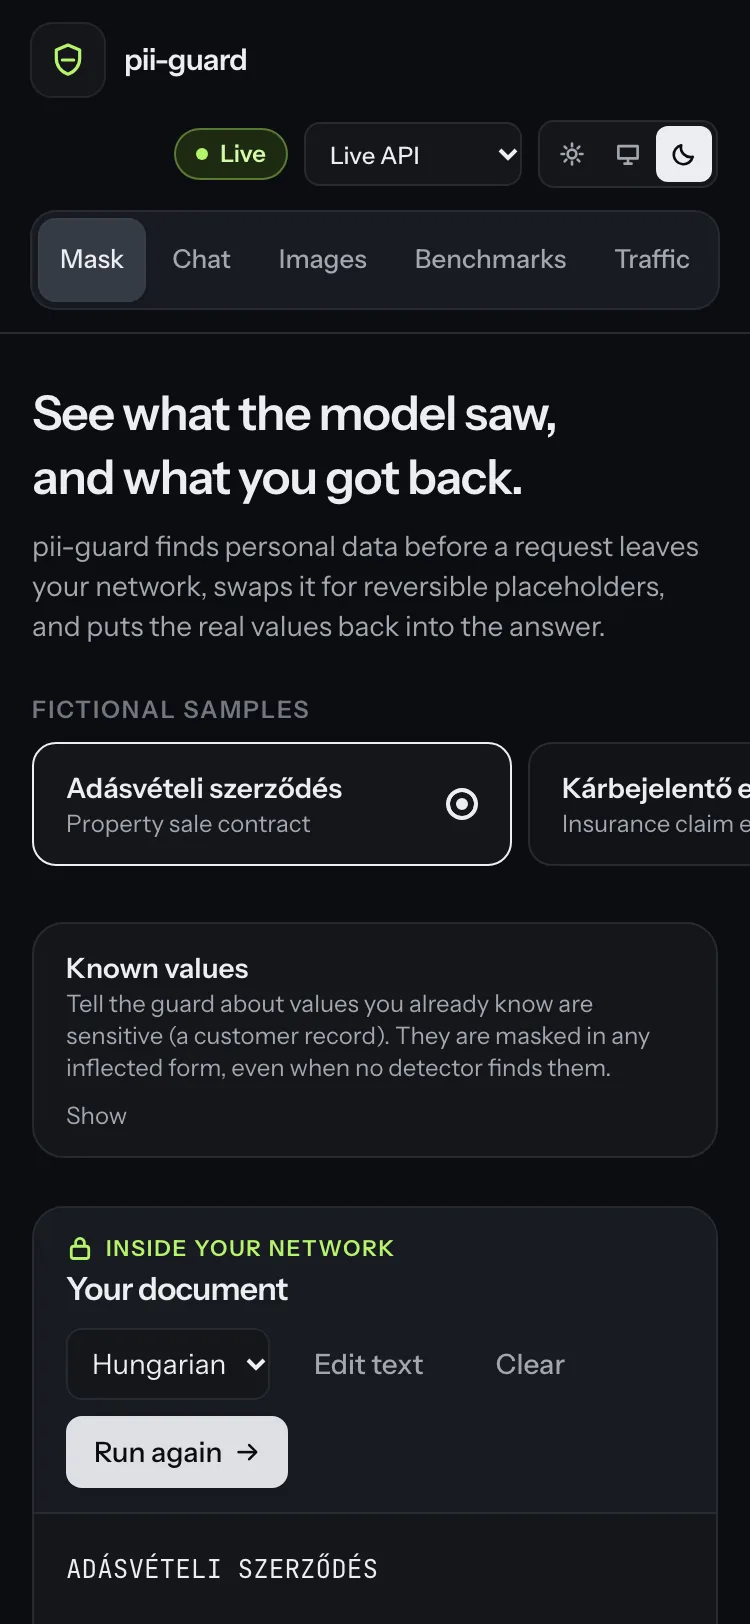
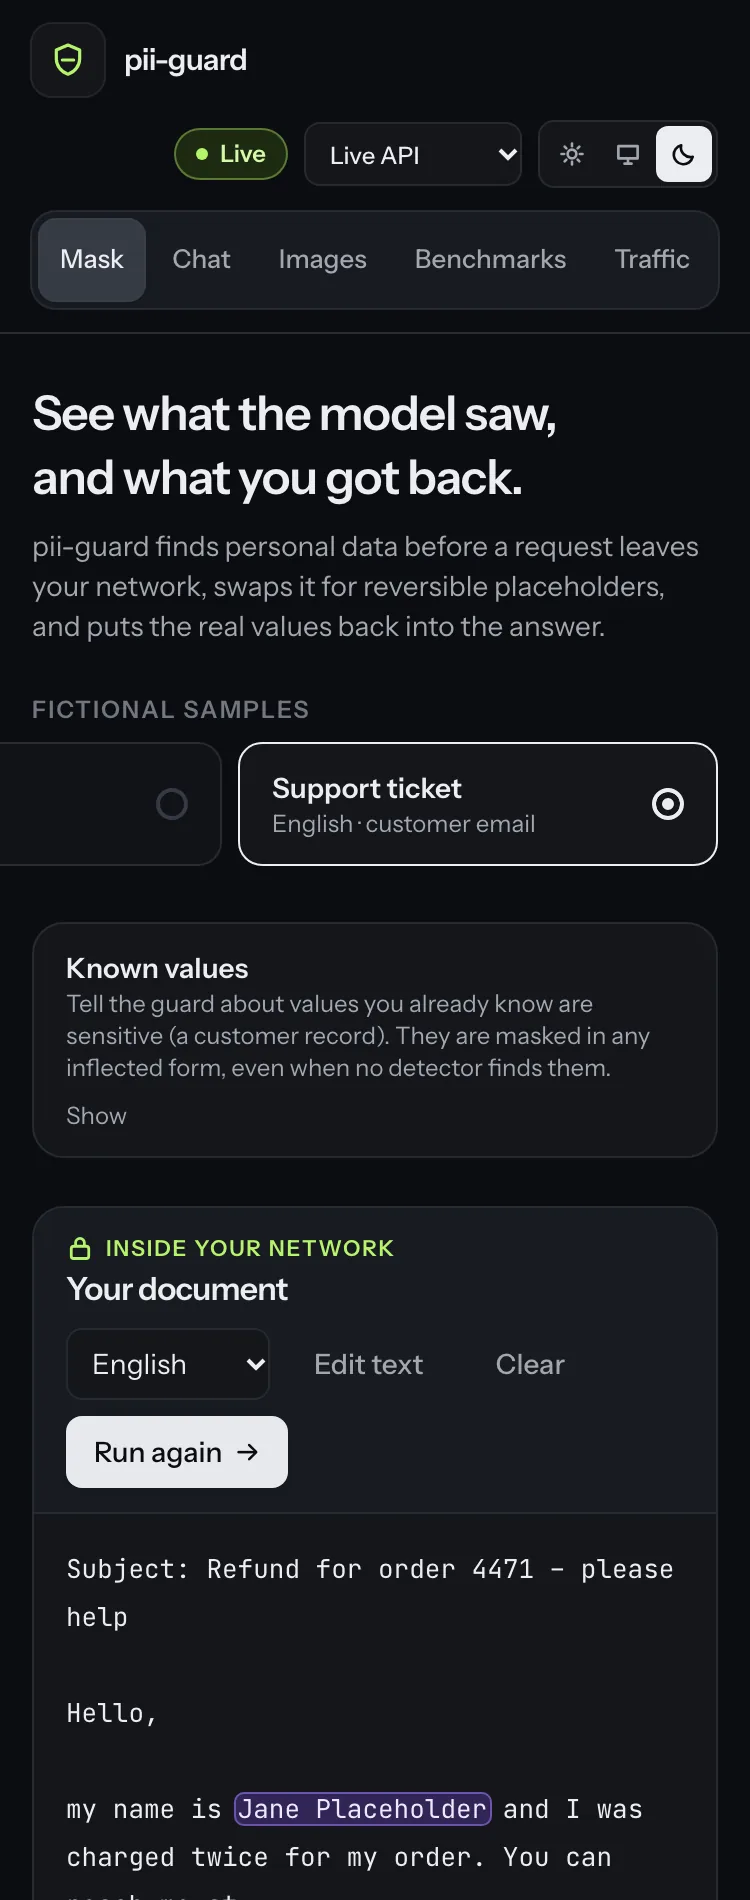
docs(readme): English dark assets, Meta lineage, honest comparison, agent gateway (LAB-1231)
Critique round 1 fixes: Meta lineage table and results above the fold, PrivAiTe's ai4privacy
win stated, numbers matching the generated benchmarks, real Hungarian output with an English
gloss, mock upstream labelled, 17 s animation, PR template links absolute. Every screenshot and
the animation re-captured with English content in the dark theme.

diff --git a/README.md b/README.md
@@ -1,8 +1,8 @@
 <p align="center">
-  <img src="docs/assets/banner.svg" alt="pii-guard: a privacy firewall for AI agents. You send 'Írj Minta Máriának holnap', the model sees 'Írj [[PERSON_7f3a]]nak holnap', you get back the real name." width="100%">
+  <img src="docs/assets/banner.svg" alt="pii-guard: a privacy firewall for AI agents. You send 'Email Jane Placeholder: jane@example.net', the model sees 'Email [[PERSON_7f3a]]: [[EMAIL_20c2]]', you get the real name back." width="100%">
 </p>
 
-<p align="center"><b>Mask personal data before it reaches the LLM, and put it back in the answer. On your machine, in milliseconds.</b></p>
+<p align="center"><b>Mask personal data before it reaches the LLM, and put it back in the answer. Built on Meta's open models; runs on your machine.</b></p>
 
 <p align="center">
   <a href="https://github.com/watt-mind/pii-guard/actions/workflows/ci.yml"><img alt="CI" src="https://github.com/watt-mind/pii-guard/actions/workflows/ci.yml/badge.svg?branch=develop"></a>
@@ -11,116 +11,132 @@
   <a href="docs/decisions/0005-synthetic-data-only.md"><img alt="Fictional data only" src="https://img.shields.io/badge/data-fictional%20only-b6f36b"></a>
 </p>
 
-pii-guard sits between your application and any OpenAI-compatible LLM. It finds personal data in
-text and images, swaps it for reversible placeholders before anything leaves your
-infrastructure, and restores the real values in the model's answer, even while it streams.
+**For teams building AI agents in Europe's regulated professions** (legal, health, finance, HR,
+public sector). Their useful data is personal data: a case file, a referral letter, an HR
+folder. Under GDPR, sending it to a third-party model is a legal risk; not sending it means the
+agent can't do the job. pii-guard is a drop-in proxy in between: change one base URL, and every
+name, address, ID and face is swapped for a reversible placeholder before the request leaves
+your network, then restored in the answer, even mid-stream and inside tool calls.
 
-```text
-"Kérem, írjon Próba Zsuzsannának a zsuzsa.proba@example.com címre."      ← what you send
-"Kérem, írjon [[PERSON_525263]] a [[EMAIL_20c291]] címre."                ← what the model sees
-"Megírtam a levelet Próba Zsuzsannának."                                  ← what you get back
-```
+**Try it offline** (no key, no model download; needs [uv](https://docs.astral.sh/uv/) and
+[pnpm](https://pnpm.io/)): `git clone https://github.com/watt-mind/pii-guard.git && cd pii-guard && make demo`,
+then open http://localhost:5173. [More ways to run it](#try-it).
 
 <p align="center">
-  <img src="docs/assets/demo/demo.webp" alt="Demo, dark theme, fictional data: a Hungarian contract is masked, a chat goes through the gateway and comes back restored, then the live traffic dashboard fills with calls and per-call latency" width="100%">
+  <img src="docs/assets/demo/demo.webp" alt="Demo in the dark theme with fictional English data: a support e-mail is masked, a chat goes through the gateway and comes back restored, then the live traffic view shows each call, its masks and its latency" width="100%">
 </p>
 
-## Try it
+<p align="center"><sub>Recorded from <code>make demo</code>: fast mode, mock upstream that echoes the masked text back (with a key, the same flow runs on Muse Spark). <b>Video:</b> <i>coming soon</i><!-- LAB-1123: video link --></sub></p>
 
-Offline, no key, no model download: the API, the gateway and the UI on a mock upstream
-(needs [uv](https://docs.astral.sh/uv/) and [pnpm](https://pnpm.io/)).
+## Meta's large models teach, Meta's small open model runs
 
-```bash
-git clone https://github.com/watt-mind/pii-guard.git && cd pii-guard
-make demo           # open http://localhost:5173
-make demo-traffic   # second terminal: fictional hu/en/de calls through the gateway
-make smoke          # the same as a pass/fail check (CI runs it)
-```
+| Job | Meta model | Evidence |
+|---|---|---|
+| **Runs in production (fast mode):** finds names, addresses and dates in process, no API call, no data leaves the machine | **XLM-RoBERTa** (FacebookAI, open weights, MIT), fine-tuned on Muse Glimmer's labels; 36 ms p50 on a laptop GPU, 241 ms CPU-only | [latency](eval/results/ner/distilled/latency-large.json), [training](docs/models.md#distilled-from-muse-glimmer) |
+| **Teaches it:** labels 4,964 fictional documents for distillation; the audit-mode upper bound | **Muse Glimmer 30B** (open weights, Apache-2.0); **Muse Spark Open** (open weights) on Baseten partner inference | [Glimmer run](eval/results/runs/2026-10-27-glimmer-zero-shot-rules-llm-low.json), [audit runs](docs/benchmarks.md#smoke) |
+| **Sees images:** faces, ID photos and signatures, filled before the image leaves | **SAM 3.1** (Meta Model API), with OCR for printed text | [specimen results](eval/results/visual/specimens.md) |
+| **Writes the benchmark, attacks the guard:** fictional documents around fictional people; tries to re-identify the people behind masked text | **Muse** (Wonder, Spark 1.3); **Muse Spark Open** as the attacker | [models](docs/models.md#which-model-does-what), [red team](eval/results/2026-10-27-redteam/README.md) |
+| **Answers in the demo:** the downstream model, which only ever sees placeholders | **Muse Spark 1.3** (Meta Model API) | [gateway](docs/architecture-gateway.md) |
 
-Without a NER checkpoint, fast mode is rules only and free-text names need known values. With
-`uv sync --extra ner` and `PII_GUARD_NER_MODEL` pointing at one
-([models.md](docs/models.md#ner-detector)) it masks names too; the screenshots below use one,
-plus `PII_GUARD_DETECTORS=rules,ner` for the Mask screen. Docker:
-`docker compose --profile demo up --build`. More: [docs/operations.md](docs/operations.md).
-
-## Why pii-guard
-
-- **Fast mode is the product.** Rules with checksums plus a multilingual NER distilled from
-  Meta's Muse Glimmer, in process: no model API call per message, and nothing leaves your
-  machine before masking ([results](#results)).
-- **Reversible and grammar-aware.** The answer names the real person; Hungarian case endings
-  stay outside the placeholder, so inflected-name leaks went
-  [18/30 → 0/30](docs/journey.md#10-hungarian-inflection-in-the-vault-2026-10-26-2333).
-- **A drop-in gateway that fails closed.** Streaming, tool calls and images through the
-  OpenAI-compatible API; a detection error blocks the request
-  ([ADR 0006](docs/decisions/0006-fail-closed.md)).
-- **Measured in the open.** Every number is a committed [run record](eval/results/runs/), the
-  report is regenerated and checked in CI, and all data is fictional.
-
-All 13 differentiators, with evidence and status: **[docs/why-pii-guard.md](docs/why-pii-guard.md)**.
+The rule behind it: anything that sees real personal data is an open-weight model you can run
+yourself; hosted models only see fictional or already-masked text. All jobs, with status:
+[docs/why-pii-guard.md](docs/why-pii-guard.md#3-built-on-metas-models-end-to-end).
 
 ## Results
 
-Hand-written fictional documents (`smoke`: 10 German, 10 English, 31 Hungarian), pooled. Leak =
-labelled personal values still readable in what the model receives; lower is safer. Copied
-from the generated [docs/benchmarks.md](docs/benchmarks.md#smoke); each row links its run
+Pooled over German, English and Hungarian. Leak = labelled personal values still readable in
+what the model receives (lower is safer). Copied from the generated
+[docs/benchmarks.md](docs/benchmarks.md#results-by-fixture-set); every row there names its run
 records.
 
-| System | Leak | F1 | Detect p50 | Model call per message | Run records (2026-10-27) |
-|---|---:|---:|---:|---|---|
-| **pii-guard fast** (rules + NER) | **0.6 %** | 98.5 % | 63 ms | none | [de+en+hu](eval/results/runs/2026-10-27-unicode-normaliser-after-smoke-fast.json) |
-| pii-guard strict (+ Muse Spark Open, optional) | 0.6 % | 98.2 % | 1.9 s | Baseten | [de](eval/results/runs/2026-10-27-comparison-de-smoke-strict.json) · [en](eval/results/runs/2026-10-27-comparison-en-smoke-strict.json) · [hu](eval/results/runs/2026-10-27-comparison-hu-smoke-strict.json) |
-| PrivAiTe | 12.7 % | 55.2 % | 170 ms | none | [de](eval/results/runs/2026-10-27-comparison-de-smoke-privaite.json) · [en](eval/results/runs/2026-10-27-comparison-en-smoke-privaite.json) · [hu](eval/results/runs/2026-10-27-comparison-hu-smoke-privaite.json) |
-| Presidio | 24.3 % | 64.9 % | 88 ms | none | [de](eval/results/runs/2026-10-27-comparison-de-smoke-presidio.json) · [en](eval/results/runs/2026-10-27-comparison-en-smoke-presidio.json) · [hu](eval/results/runs/2026-10-27-comparison-hu-smoke-presidio.json) |
-| LLM Guard | 45.1 % | 53.2 % | 110 ms | none | [de](eval/results/runs/2026-10-27-comparison-de-smoke-llm-guard.json) · [en](eval/results/runs/2026-10-27-comparison-en-smoke-llm-guard.json) · [hu](eval/results/runs/2026-10-27-comparison-hu-smoke-llm-guard.json) |
+| System | Leak, hand-written (51 docs) | Precision | Leak, [ai4privacy](docs/benchmarks.md#ai4privacy) (600 docs) | Precision | Detect p50 | Per message |
+|---|---:|---:|---:|---:|---:|---|
+| **pii-guard fast** (rules + NER) | **0.6 %** | 98.5 % | 27.6 % | 92.8 % | 94 ms | on-device, $0 |
+| pii-guard audit (`strict` mode: + Muse Spark Open) | 0.6 % | 97.0 % | **3.9 %** | 92.5 % | 1.9 s | one Baseten call |
+| PrivAiTe | 12.7 % | 51.2 % | 9.5 % | 64.8 % | 170 ms | on-device |
+| Presidio | 24.3 % | 62.5 % | 29.6 % | 38.6 % | 88 ms | on-device |
+| LLM Guard | 45.1 % | 61.5 % | 43.8 % | 79.3 % | 110 ms | on-device |
 
-Small sets: a few points are noise. Latency is per document on a shared laptop CPU, not a
-like-for-like speed test. Charts, per-language tables, image masking and the full run log:
-**[docs/benchmarks.md](docs/benchmarks.md)**; how the numbers moved: [docs/journey.md](docs/journey.md).
+On the hand-written set, fast mode leaks 20× less than the best other tool. On the public
+ai4privacy set, **PrivAiTe leaks less than fast mode** (9.5 % vs 27.6 %); only audit mode beats
+it there. Run records: fast [hand-written](eval/results/runs/2026-10-27-rules-resolve-after-smoke-fast.json) ·
+[ai4privacy](eval/results/runs/2026-10-27-rules-resolve-after-ai4privacy-fast.json); the others
+are listed per language in the [run log](docs/benchmarks.md#run-log). Small sets, and latency
+on a shared laptop CPU: compare loosely.
 
-## What you can see in the demo
+## Built for agents: tool calls and streaming
 
-All five screens run on fictional samples; tabs are deep links (`#mask`, `#chat`, `#images`,
-`#benchmarks`, `#traffic`).
-
-| **Text:** every value found, and what the model saw | **Gateway:** a chat, masked out and restored back |
-|---|---|
-| [![Mask screen: a fictional Hungarian contract with each personal value highlighted, and the placeholders the model sees](docs/assets/demo/1-mask.webp)](docs/assets/demo/1-mask.webp) | [![Chat screen: an English message sent through the gateway in fast mode; the model received placeholders and the answer came back restored](docs/assets/demo/2-chat.webp)](docs/assets/demo/2-chat.webp) |
-| **Images:** faces, signatures and ID numbers covered | **Live traffic:** every call, its masks and its latency |
-| [![Images screen: a fictional ID card; SAM 3.1 and OCR found the face, photo, signature and printed numbers, and the model saw them filled](docs/assets/demo/3-images.webp)](docs/assets/demo/3-images.webp) | [![Live traffic screen: calls through the gateway with their entity types, the selected call's details and its timing waterfall](docs/assets/demo/6-traffic.webp)](docs/assets/demo/6-traffic.webp) |
-| **Latency, live:** overhead per call, stages, values per minute | **Benchmarks:** leak against latency, from the run records |
-| [![Live latency charts: overhead per call with rolling p50 and p95, overhead by mode, time per stage and values masked per minute](docs/assets/demo/7-traffic-charts.webp)](docs/assets/demo/7-traffic-charts.webp) | [![Benchmarks screen: results table and the leak rate versus latency chart for pii-guard and the open-source tools](docs/assets/demo/4-benchmarks.webp)](docs/assets/demo/4-benchmarks.webp) |
-
-At phone width: [Mask](docs/assets/demo/5-mask-mobile.webp) ·
-[Live traffic](docs/assets/demo/8-traffic-mobile.webp). What each screen does:
-[ui/README.md](ui/README.md#screens).
-
-## Use it from your code
-
-Change the base URL of any OpenAI-compatible client; nothing else.
+The gateway speaks the OpenAI chat API, so an agent framework only changes its base URL. It
+masks every message, **tool definitions, tool-call arguments and tool results**, restores
+placeholders in streamed answers chunk by chunk (also when one is split across chunks), keeps
+the same placeholder for the same person across a whole session, and fails closed on anything
+it can't mask ([field table](docs/contracts.md#gateway-request-fields-implemented)).
 
 ```python
 from openai import OpenAI
 
 client = OpenAI(base_url="http://127.0.0.1:8787/v1", api_key="unused")
-reply = client.chat.completions.create(
-    model="muse-spark-1.3",
-    messages=[{"role": "user", "content": "I'm Jane Placeholder. Invite Teszt Elek to lunch."}],
+stream = client.chat.completions.create(
+    model="muse-spark-1.3", stream=True, tools=my_tools,  # your agent's tools, unchanged
+    messages=[{"role": "user", "content": "Refund Jane Placeholder, jane.placeholder@example.net."}],
     extra_headers={"X-PII-Guard-Mode": "fast"},
-)
-print(reply.choices[0].message.content)  # real names; the model only saw placeholders
+)  # the model sees [[PERSON_…]] and [[EMAIL_…]]; your code gets the real values back
 ```
 
-Sessions, streaming, the headers, strict mode and every setting:
-[docs/architecture-gateway.md](docs/architecture-gateway.md). The REST API (`/v1/analyze`,
-`/v1/mask`, `/v1/unmask`, `/v1/mask/image`): [docs/contracts.md](docs/contracts.md).
+Sessions, headers, modes and settings: [docs/architecture-gateway.md](docs/architecture-gateway.md).
+
+## Why pii-guard
+
+- **Reversible, not redacted.** The answer names the real person, and every document in the
+  hand-written set unmasks back to its original exactly.
+- **Grammar-aware.** In languages like Hungarian a name changes with every case; the ending
+  stays outside the placeholder, so the model still writes grammatical text:
+
+  | | Hungarian (real output) | English gloss |
+  |---|---|---|
+  | You send | Kérem, írjon Próba Zsuzsannának a zsuzsa.proba@example.com címre. | Please write *to Zsuzsanna Próba* at … |
+  | The model sees | Kérem, írjon [[PERSON_968e29]]nak a [[EMAIL_e7038b]] címre. | … *to [[PERSON]]* … |
+  | You get back | Megírtam a levelet Próba Zsuzsannának. | I wrote *to Zsuzsanna Próba*. |
+
+  Inflected-name leaks went [18/30 → 0/30](docs/journey.md#10-hungarian-inflection-in-the-vault-2026-10-26-2333).
+- **Measured in the open.** Every number is a committed [run record](eval/results/runs/); the
+  report is regenerated and checked in CI; all data is fictional.
+
+All 13 differentiators, with evidence and status: **[docs/why-pii-guard.md](docs/why-pii-guard.md)**.
+
+## What you can see in the demo
+
+| **Text:** every value found, and what the model saw | **Gateway:** a chat, masked out and restored back |
+|---|---|
+| [![Mask screen: a fictional English support e-mail with each personal value highlighted, and the placeholders the model sees](docs/assets/demo/1-mask.webp)](docs/assets/demo/1-mask.webp) | [![Chat screen: an English message sent through the gateway in fast mode; the model received placeholders and the answer came back restored](docs/assets/demo/2-chat.webp)](docs/assets/demo/2-chat.webp) |
+| **Images:** face, photo, signature and printed values covered | **Live traffic:** every call, its masks and its timing |
+| [![Images screen: a fictional English ID card; SAM 3.1 and OCR found the face, photo, signature, name, birth date and document number, and the model saw them filled](docs/assets/demo/3-images.webp)](docs/assets/demo/3-images.webp) | [![Live traffic screen: calls through the gateway with their entity types, an English call's details and its timing waterfall](docs/assets/demo/6-traffic.webp)](docs/assets/demo/6-traffic.webp) |
+| **Latency, live:** overhead per call, stages, values per minute | **Benchmarks:** leak against latency, from the run records |
+| [![Live latency charts: overhead per call with rolling p50 and p95, overhead by mode, time per stage and values masked per minute](docs/assets/demo/7-traffic-charts.webp)](docs/assets/demo/7-traffic-charts.webp) | [![Benchmarks screen: results table and the leak rate versus latency chart for pii-guard and the open-source tools](docs/assets/demo/4-benchmarks.webp)](docs/assets/demo/4-benchmarks.webp) |
+
+At phone width: [Mask](docs/assets/demo/5-mask-mobile.webp) ·
+[Live traffic](docs/assets/demo/8-traffic-mobile.webp). The screens: [ui/README.md](ui/README.md#screens).
+
+## Try it
+
+```bash
+make demo           # API + gateway + UI on a mock upstream: http://localhost:5173
+make demo-traffic   # second terminal: fictional calls (with tools and streaming) through the gateway
+make smoke          # the same as a pass/fail check (CI runs it)
+```
+
+Without a NER checkpoint, fast mode is rules only and free-text names need known values. With
+`uv sync --extra ner` and `PII_GUARD_NER_MODEL` pointing at one
+([models.md](docs/models.md#ner-detector)) it masks names too; the screenshots use one, plus
+`PII_GUARD_DETECTORS=rules,ner` for the Mask screen. Docker:
+`docker compose --profile demo up --build`. More: [docs/operations.md](docs/operations.md).
 
 ## How it works
 
 ```
  your app / agent ──► pii-guard ──────────────────────────────► LLM provider
-                      │ 1. extract text (and image regions)           │
-                      │ 2. detect PII (rules → NER → optional LLM)    │
+                      │ 1. extract text, tool calls, image regions    │
+                      │ 2. detect (rules → NER → optional audit LLM)  │
                       │ 3. apply policies, pseudonymize (keyed)       │
                       │ 4. mask image regions (SAM 3.1 + OCR)         │
                       │◄──────────────── response (streamed) ─────────┘
@@ -130,33 +146,17 @@ Sessions, streaming, the headers, strict mode and every setting:
 
 The mapping between real values and placeholders **never leaves pii-guard**. Design and
 engineering choices: [docs/architecture.md](docs/architecture.md); threat model:
-[docs/privacy-model.md](docs/privacy-model.md); which Meta model does what:
-[docs/why-pii-guard.md](docs/why-pii-guard.md#3-built-on-metas-models-end-to-end).
+[docs/privacy-model.md](docs/privacy-model.md); everything else: [docs/INDEX.md](docs/INDEX.md).
 
 > **Status: hackathon build** for the Meta Global AI Developer Hackathon (October 26 –
-> November 4, 2026). Detection, masking, streaming restore, the gateway, image masking and the
-> evaluation harness work end to end; it is not production-hardened yet. What is not done:
-> [docs/why-pii-guard.md](docs/why-pii-guard.md#what-is-not-here-yet) and
-> [docs/roadmap.md](docs/roadmap.md).
+> November 4, 2026). It works end to end; it is not production-hardened yet. What is missing:
+> [docs/why-pii-guard.md](docs/why-pii-guard.md#what-is-not-here-yet), [docs/roadmap.md](docs/roadmap.md).
 
-## Documentation
+## Contributing, security, license
 
-Start at [docs/INDEX.md](docs/INDEX.md): architecture, privacy model, entity taxonomy,
-languages, evaluation method, models, contracts and decision records.
-
-## Contributing
-
-See [CONTRIBUTING.md](CONTRIBUTING.md). The one rule that matters most: **never commit real
-personal data**, not even in a test. All fixtures are synthetic.
-
-## Security
-
-**No authentication by default.** Keep pii-guard on loopback (the default) or behind an
-authenticating proxy: anyone who can reach it can unmask and use the gateway.
-`PII_GUARD_API_TOKEN` turns on a bearer token
+See [CONTRIBUTING.md](CONTRIBUTING.md); the rule that matters most: **never commit real
+personal data**, not even in a test. **No authentication by default:** keep pii-guard on
+loopback or behind an authenticating proxy, or set `PII_GUARD_API_TOKEN`
 ([operations.md](docs/operations.md#exposure-and-authentication)). Found a way to make personal
 data leak past the guard? Report it privately: [SECURITY.md](SECURITY.md).
-
-## License
-
-[Apache-2.0](LICENSE)
+Licensed [Apache-2.0](LICENSE).

diff --git a/.github/pull_request_template.md b/.github/pull_request_template.md
@@ -13,5 +13,5 @@
 - [ ] No raw values in logs or errors (types, counts and placeholder ids only).
 - [ ] Detection change: a run is recorded with `pii-guard eval ... --record <slug>`, before/after
       numbers are below, and the generated report is committed
-      ([CONTRIBUTING.md](../CONTRIBUTING.md#recording-a-benchmark-run)).
-- [ ] An interface in [docs/contracts.md](../docs/contracts.md) changed: that file is updated too.
+      ([CONTRIBUTING.md](https://github.com/watt-mind/pii-guard/blob/develop/CONTRIBUTING.md#recording-a-benchmark-run)).
+- [ ] An interface in [docs/contracts.md](https://github.com/watt-mind/pii-guard/blob/develop/docs/contracts.md) changed: that file is updated too.
